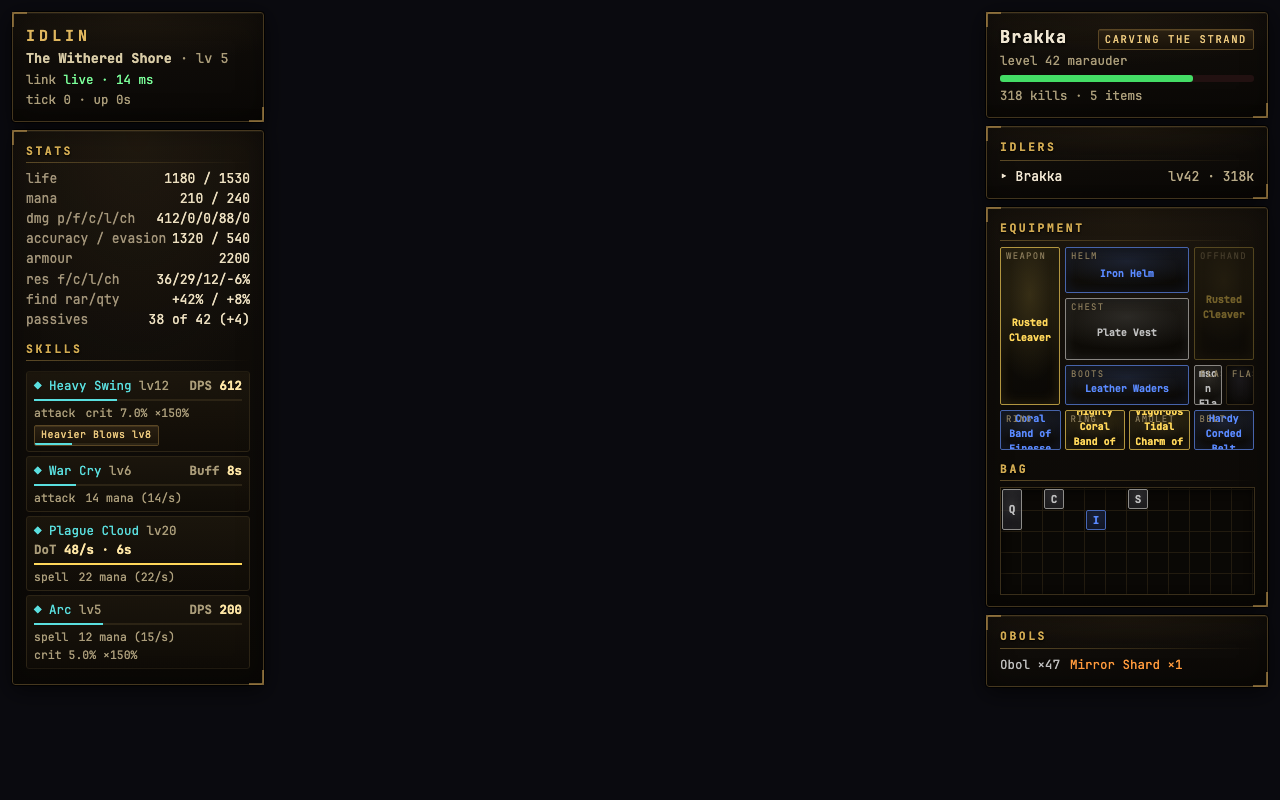
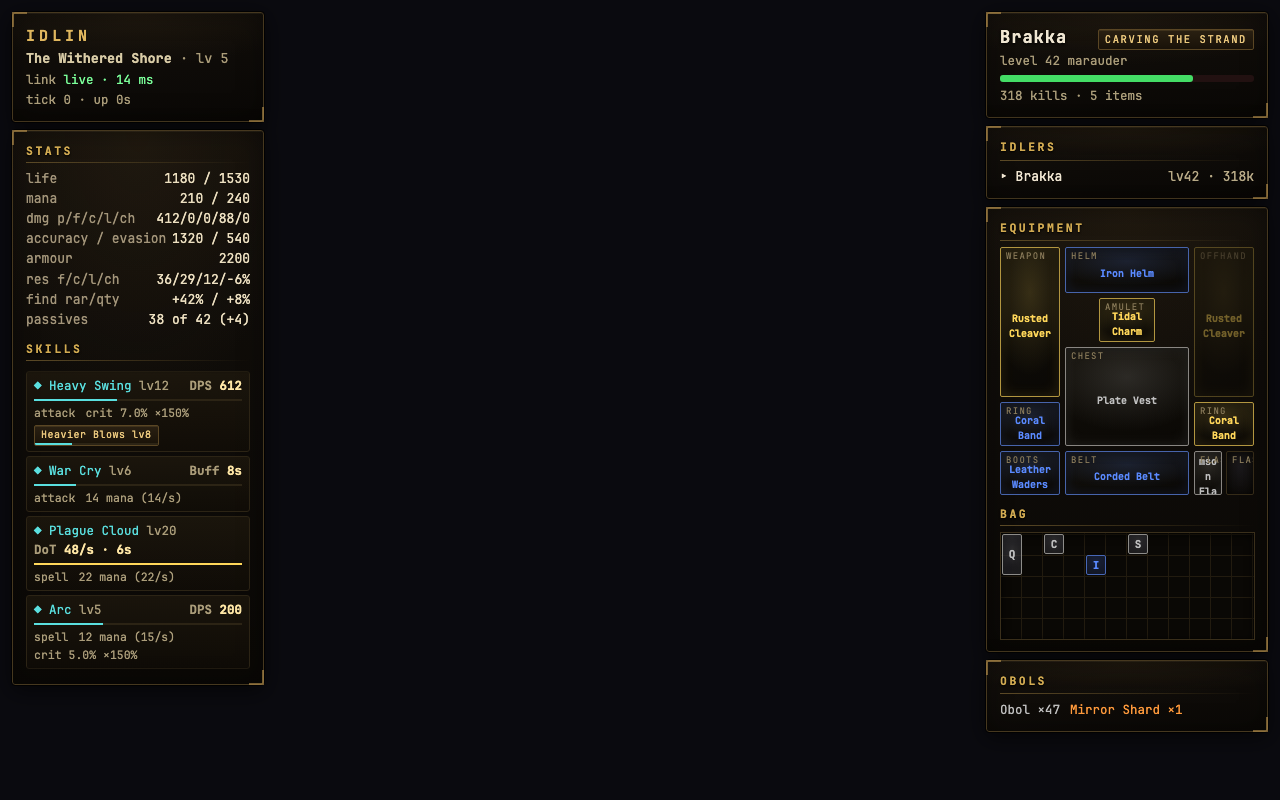
Address review: PoE-style accessory layout + elegance fixes (#91)
Layout: rebuild the paper-doll the PoE way — amulet at the neck, the two rings
FLANKING the body (side columns), belt wide across the bottom-center — instead
of the four-in-a-row strip. Rows rebalanced so the small accessory slots aren't
cramped; fixture uses base names so the no-icon harness shot reads clean.

Elegance (design-critic findings):
- item_score now values accessory STR/DEX/INT (×80) and mana (×50), which feed
  real derived stats — so EquipBest can rank attribute jewelry instead of seeing
  every accessory as a 0-score tie. Golden-neutral (the golden grinders manual-
  equip via upkeep_gear; item_score/equip_best isn't on their path).
- GearSlot::loops() is now the single source of truth for slot↔index mapping;
  idx() = loops()[0]. equip_best fits (`loops().contains`) and manual equip
  (`loops().find(free)`) both derive from it, replacing the duplicated
  flask/ring branches at both call sites. Behavior-preserving.
- Fixed the stale "two belt loops" comment (now "two flask loops").

Test: equip_best_ranks_accessories_by_their_attribute_rolls — the stronger-STR
ring wins the first ring loop; mutation-verified (fails when the attribute
weight is removed: the weaker ring takes it on the tie-break).

(bagKind's name-heuristic is left as-is — pre-existing across all gear; the
robust fix carries item kind in InvItemView, a protocol change beyond this PR.)

Changed region(s): [[0.7812, 0.375, 0.9688, 0.7188], [0.7812, 0.75, 1.0, 0.9062]]

diff --git a/web/src/ui/Overlay.tsx b/web/src/ui/Overlay.tsx
@@ -317,12 +317,14 @@ function GearPanel({ sheet, icons }: { sheet: CharacterSheet; icons: Icons }) {
   return (
     <div className="panel" style={{ marginTop: 8, lineHeight: 1.5 }}>
       <Header first>Equipment</Header>
+      {/* PoE-style paper doll: weapon/offhand tall on the sides, amulet at the
+          neck, the two rings FLANKING the body, belt wide across the bottom. */}
       <div
         style={{
           display: "grid",
           gridTemplateColumns: "60px 1fr 60px",
-          gridTemplateRows: "46px 62px 40px 40px",
-          gridTemplateAreas: `"weapon helm offhand" "weapon chest offhand" "weapon boots flask" "acc acc acc"`,
+          gridTemplateRows: "46px 44px 50px 44px 44px",
+          gridTemplateAreas: `"weapon helm offhand" "weapon amulet offhand" "weapon chest offhand" "ringl chest ringr" "boots belt flask"`,
           gap: 5,
           marginBottom: 2,
         }}
@@ -330,29 +332,24 @@ function GearPanel({ sheet, icons }: { sheet: CharacterSheet; icons: Icons }) {
         <SlotBox area="weapon" label="Weapon" gear={bySlot.get("weapon")} icons={icons} />
         <SlotBox area="helm" label="Helm" gear={bySlot.get("helm")} icons={icons} />
         <SlotBox area="offhand" label="Offhand" gear={bySlot.get("offhand")} icons={icons} />
+        {/* Amulet: a small slot at the neck, centered in the wide column. */}
+        <div style={{ gridArea: "amulet", display: "flex", justifyContent: "center" }}>
+          <div style={{ width: 56, display: "grid" }}>
+            <SlotBox area="auto" label="Amulet" gear={bySlot.get("amulet")} icons={icons} />
+          </div>
+        </div>
         <SlotBox area="chest" label="Chest" gear={bySlot.get("chest")} icons={icons} />
+        {/* Rings flank the body, left and right. */}
+        <SlotBox area="ringl" label="Ring" gear={bySlot.get("ring")} icons={icons} />
+        <SlotBox area="ringr" label="Ring" gear={bySlot.get("ring 2")} icons={icons} />
         <SlotBox area="boots" label="Boots" gear={bySlot.get("boots")} icons={icons} />
+        <SlotBox area="belt" label="Belt" gear={bySlot.get("belt")} icons={icons} />
         <div style={{ gridArea: "flask", display: "flex", gap: 4 }}>
           <div style={{ flex: 1, display: "grid" }}>
             <SlotBox area="auto" label="Flask" gear={bySlot.get("flask")} icons={icons} />
           </div>
           <div style={{ flex: 1, display: "grid" }}>
             <SlotBox area="auto" label="Flask" gear={bySlot.get("flask 2")} icons={icons} />
-          </div>
-        </div>
-        {/* Accessories — affix-only slots (2 rings, amulet, belt), no 3D mesh. */}
-        <div style={{ gridArea: "acc", display: "flex", gap: 4 }}>
-          <div style={{ flex: 1, display: "grid" }}>
-            <SlotBox area="auto" label="Ring" gear={bySlot.get("ring")} icons={icons} />
-          </div>
-          <div style={{ flex: 1, display: "grid" }}>
-            <SlotBox area="auto" label="Ring" gear={bySlot.get("ring 2")} icons={icons} />
-          </div>
-          <div style={{ flex: 1, display: "grid" }}>
-            <SlotBox area="auto" label="Amulet" gear={bySlot.get("amulet")} icons={icons} />
-          </div>
-          <div style={{ flex: 1, display: "grid" }}>
-            <SlotBox area="auto" label="Belt" gear={bySlot.get("belt")} icons={icons} />
           </div>
         </div>
       </div>

diff --git a/web/src/harness/fixtures.ts b/web/src/harness/fixtures.ts
@@ -99,10 +99,10 @@ const inspectPanel: Fixture = {
           gear("Boots", "Leather Waders", 1),
           gear("Flask", "Crimson Flask", 0),
           gear("Flask 2", "", 0), // empty second flask loop
-          gear("Ring", "Coral Band of Finesse", 1),
-          gear("Ring 2", "Mighty Coral Band of Acumen", 2),
-          gear("Belt", "Hardy Corded Belt", 1),
-          gear("Amulet", "Vigorous Tidal Charm of Genius", 2),
+          gear("Ring", "Coral Band", 1),
+          gear("Ring 2", "Coral Band", 2),
+          gear("Belt", "Corded Belt", 1),
+          gear("Amulet", "Tidal Charm", 2),
         ],
         inventory: [
           { name: "Quicksilver Flask", rarity: 0, x: 0, y: 0, w: 1, h: 2 },

diff --git a/crates/idlin-sim/src/world/combat.rs b/crates/idlin-sim/src/world/combat.rs
@@ -3432,6 +3432,84 @@ mod tests {
         }
     }
 
+    /// #91: item_score must value accessory attribute rolls (STR/DEX/INT), which
+    /// feed real derived stats — else EquipBest can't rank attribute jewelry and
+    /// both rings score 0. With the weight, the STRONGER ring wins the first ring
+    /// loop EquipBest processes; revert the attribute weight and the weaker ring
+    /// (first in the bag) takes it on the tie-break.
+    #[test]
+    fn equip_best_ranks_accessories_by_their_attribute_rolls() {
+        use crate::entity::{BagItem, Item, PlacedItem, Rarity, RolledAffix};
+        use idlin_content::GearSlot;
+        let content = content();
+        let mut world = World::new(0xACCE_0004, &content);
+        let program = idlin_botc::assemble("halt\n").unwrap();
+        world.tick(&crate::TickInputs {
+            arrivals: Vec::new(),
+            joins: vec![crate::JoinRequest {
+                name: "Appraiser".into(),
+                program,
+            }],
+        });
+        let slot = (0..world.zone.slot_count())
+            .find(|&s| world.zone.get(s).is_some_and(|e| e.character.is_some()))
+            .unwrap();
+        let coral = content
+            .items
+            .iter()
+            .position(|i| i.id == "coral_ring")
+            .unwrap() as u32;
+        let bold = content.affixes.iter().position(|a| a.id == "bold").unwrap() as u32;
+        // Two coral rings, identical but for the +STR roll.
+        let ring = |strength: i64| Item {
+            base_idx: coral,
+            rarity: Rarity::Magic,
+            item_level: 10,
+            affixes: vec![RolledAffix {
+                affix_idx: bold,
+                value: strength,
+                tier: 0,
+            }],
+            name: String::new(),
+            charges: 0,
+        };
+        {
+            let ch = world
+                .zone
+                .get_mut(slot)
+                .unwrap()
+                .character
+                .as_mut()
+                .unwrap();
+            ch.equipment[GearSlot::RING_SLOTS[0]] = None;
+            ch.equipment[GearSlot::RING_SLOTS[1]] = None;
+            ch.inventory.clear();
+            // Weak ring FIRST so the tie-break (without the weight) would pick it.
+            ch.inventory.push(PlacedItem {
+                item: BagItem::Gear(ring(4)),
+                x: 0,
+                y: 0,
+            });
+            ch.inventory.push(PlacedItem {
+                item: BagItem::Gear(ring(24)),
+                x: 1,
+                y: 0,
+            });
+        }
+        let mut ev = Vec::new();
+        world.equip_best(slot, &mut ev);
+        let ch = world.zone.get(slot).unwrap().character.as_ref().unwrap();
+        let worn_str = ch.equipment[GearSlot::RING_SLOTS[0]]
+            .as_ref()
+            .expect("first ring loop is filled")
+            .affixes[0]
+            .value;
+        assert_eq!(
+            worn_str, 24,
+            "EquipBest put the higher-STR ring in the first loop (item_score values attributes)"
+        );
+    }
+
     /// #63: move_item must reject out-of-grid bot coordinates with -1, never
     /// overflow `x + w` (debug panic / release wrap). The x=255 case panics in
     /// debug if the u16-widened bounds check is reverted — so this test pins it.

diff --git a/crates/idlin-sim/src/world/inventory.rs b/crates/idlin-sim/src/world/inventory.rs
@@ -385,15 +385,9 @@ impl World {
                     continue;
                 };
                 let islot = self.content.items[gear.base_idx as usize].slot;
-                // Flasks fit EITHER belt loop and rings EITHER finger; everything
-                // else maps 1:1.
-                let fits = if GearSlot::FLASK_SLOTS.contains(&gear_idx) {
-                    islot == GearSlot::Flask
-                } else if GearSlot::RING_SLOTS.contains(&gear_idx) {
-                    islot == GearSlot::Ring
-                } else {
-                    islot.idx() == gear_idx
-                };
+                // The item fits this index iff it's one of its slot family's
+                // loops (flasks and rings own two each; others a single index).
+                let fits = islot.loops().contains(&gear_idx);
                 if !fits {
                     continue;
                 }
@@ -534,21 +528,15 @@ impl World {
             return -1; // out of range, or the bag slot is a gem
         };
         let islot = self.content.items[gear.base_idx as usize].slot;
-        // A flask takes either belt loop and a ring either finger — the first
-        // free one, else loop 0. Everything else maps 1:1.
-        let gear_idx = if islot == GearSlot::Flask {
-            GearSlot::FLASK_SLOTS
-                .into_iter()
-                .find(|&i| ch.equipment[i].is_none())
-                .unwrap_or(GearSlot::FLASK_SLOTS[0])
-        } else if islot == GearSlot::Ring {
-            GearSlot::RING_SLOTS
-                .into_iter()
-                .find(|&i| ch.equipment[i].is_none())
-                .unwrap_or(GearSlot::RING_SLOTS[0])
-        } else {
-            islot.idx()
-        };
+        // Land on the first FREE loop of the item's slot family (flasks and
+        // rings own two), else its primary — single-slot families collapse to
+        // idx(), and equip swaps whatever's worn there.
+        let loops = islot.loops();
+        let gear_idx = loops
+            .iter()
+            .copied()
+            .find(|&i| ch.equipment[i].is_none())
+            .unwrap_or(loops[0]);
         // Can't keep it equipped → refuse, rather than thrash it on and off.
         if !self.meets_requirements(slot, gear, Some(gear_idx)) {
             return -1;
@@ -724,6 +712,14 @@ impl World {
                 + sheet.value(Stat::Block, def.block_bp) / 3
                 + sheet.value(Stat::Evasion, def.evasion) * 100
                 + sheet.value(Stat::Life, 0) * 200
+                + sheet.value(Stat::Mana, 0) * 50
+                // Attributes feed real derived stats (STR→life/melee, DEX→acc/eva,
+                // INT→mana/ES), so accessory jewelry's signature rolls must count —
+                // else EquipBest can't tell a +20-STR amulet from a bare slot.
+                + (sheet.value(Stat::Strength, 0)
+                    + sheet.value(Stat::Dexterity, 0)
+                    + sheet.value(Stat::Intelligence, 0))
+                    * 80
                 + sheet.value(Stat::ResistFire, 0) / 10
                 + sheet.value(Stat::ResistCold, 0) / 10
                 + sheet.value(Stat::ResistLightning, 0) / 10

diff --git a/crates/idlin-content/src/lib.rs b/crates/idlin-content/src/lib.rs
@@ -230,25 +230,32 @@ pub enum GearSlot {
 impl GearSlot {
     pub const COUNT: usize = 11;
 
-    pub fn idx(self) -> usize {
-        // Indices are append-only — existing slots (0..=6) keep their numbers so
-        // a slot growth never re-homes worn gear. Index 6 is the second flask
-        // loop and index 8 the second ring loop (no enum variant — the SLOTS
-        // arrays below own the second loop, the Flask/Ring precedent).
+    /// The equipment-array indices this slot occupies — the single source of
+    /// truth for slot↔index mapping. Flasks and rings each own TWO loops; every
+    /// other slot is one index. Indices are append-only (existing slots keep
+    /// 0..=6 so a slot growth never re-homes worn gear); index 6 is the 2nd
+    /// flask loop and index 8 the 2nd ring loop, owned here with no enum variant.
+    pub fn loops(self) -> &'static [usize] {
         match self {
-            GearSlot::Weapon => 0,
-            GearSlot::Offhand => 1,
-            GearSlot::Helm => 2,
-            GearSlot::Chest => 3,
-            GearSlot::Boots => 4,
-            GearSlot::Flask => 5,
-            GearSlot::Ring => 7,
-            GearSlot::Belt => 9,
-            GearSlot::Amulet => 10,
+            GearSlot::Weapon => &[0],
+            GearSlot::Offhand => &[1],
+            GearSlot::Helm => &[2],
+            GearSlot::Chest => &[3],
+            GearSlot::Boots => &[4],
+            GearSlot::Flask => &Self::FLASK_SLOTS,
+            GearSlot::Ring => &Self::RING_SLOTS,
+            GearSlot::Belt => &[9],
+            GearSlot::Amulet => &[10],
         }
     }
 
-    /// Equipment indices that accept flask items (two belt loops).
+    /// The slot's PRIMARY equipment index (the first loop). A single-target
+    /// equip lands on the first FREE loop, falling back to this.
+    pub fn idx(self) -> usize {
+        self.loops()[0]
+    }
+
+    /// Equipment indices that accept flask items (two flask loops).
     pub const FLASK_SLOTS: [usize; 2] = [5, 6];
     /// Equipment indices that accept rings (two fingers), like flasks.
     pub const RING_SLOTS: [usize; 2] = [7, 8];
